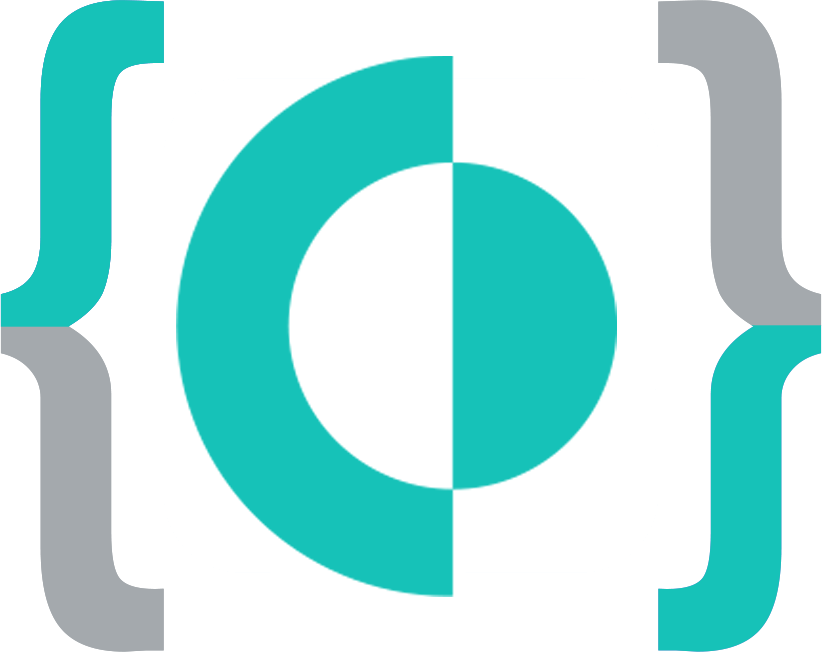
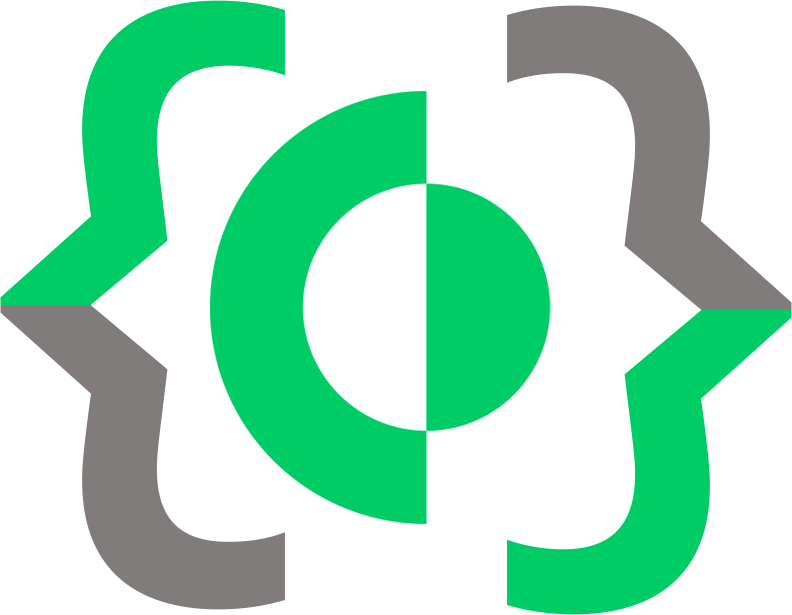
rebrand

diff --git a/src/css/custom.css b/src/css/custom.css
@@ -14,15 +14,15 @@
 /* You can override the default Infima variables here. */
 
 :root {
-  --ifm-color-primary: #16c2b8;
-  --ifm-color-primary-dark: #5bd4ce;
-  --ifm-color-primary-darker: #44cec7;
-  --ifm-color-primary-dt: #2dc8c0;
-  --ifm-color-primary-light: #73dad5;
-  --ifm-color-primary-lighter: #8ae0dc;
-  --ifm-color-primary-lightest: #a1e6e3;
-  --ifm-color-info: #16c2b8;
-  --ifm-link-color: #16c2b8;
+  --ifm-color-primary: #00cc66;
+  --ifm-color-primary-dark: #00b85c;
+  --ifm-color-primary-darker: #00ad57;
+  --ifm-color-primary-darkest: #008f47;
+  --ifm-color-primary-light: #00e070;
+  --ifm-color-primary-lighter: #00eb75;
+  --ifm-color-primary-lightest: #0aff85;
+  --ifm-color-info: #00cc66;
+  --ifm-link-color: #00cc66;
   --ifm-navbar-search-input-color: var(--ifm-color-gray-900);
   --ifm-navbar-search-placeholder-color: var(--ifm-color-gray-900);
   

diff --git a/docusaurus.config.js b/docusaurus.config.js
@@ -68,12 +68,12 @@ module.exports = {
         {
           href: "https://medium.com/palo-alto-networks-developer-blog",
           label: "Blog",
-          position: "left"
+          position: "right"
         },
         {
           href: "https://github.com/PaloAltoNetworks",
           label: "GitHub",
-          position: "left"
+          position: "right"
         },
         {
           to: "/register",

diff --git a/src/pages/styles.module.css b/src/pages/styles.module.css
@@ -74,7 +74,7 @@
   color: white;
   text-align: center;
   justify-content: center;
-  background-color: 	#44CEC7;
+  background-color: 	#00CC66;
 }
 
 .tools {
